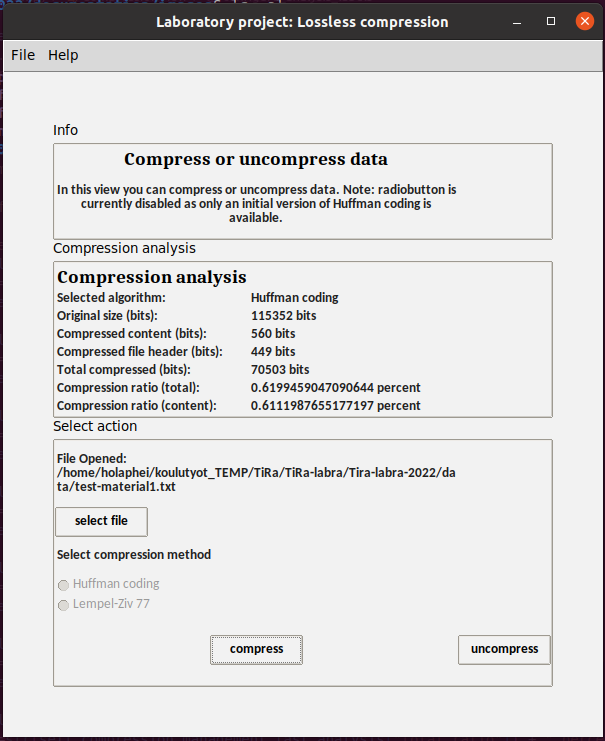
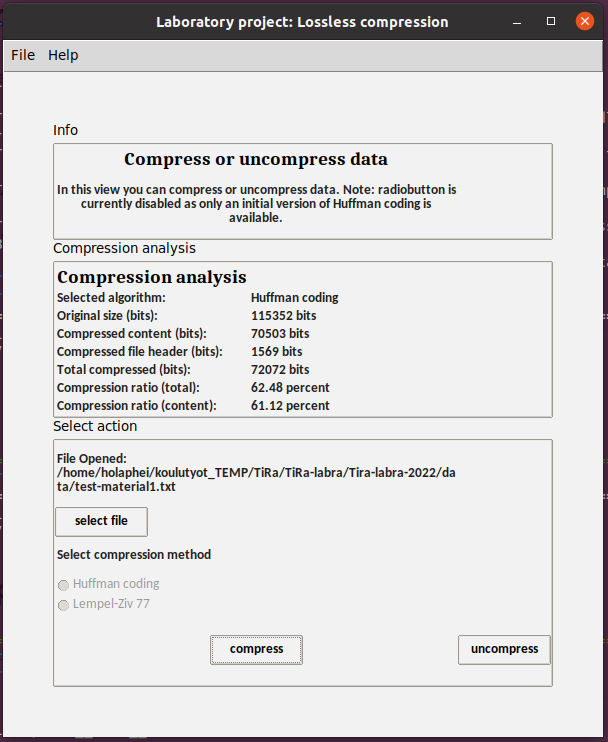
Update how-to-guide, update images

diff --git a/documentation/weekly-report-2.md b/documentation/weekly-report-2.md
@@ -1,23 +1,32 @@
 # Weekly Report #2
 
 ## Quick recap on progress
+* Initial version of Huffman algorithm built. Header still needs to be compressed more efficiently
+* GUI now has basic functionalities
+* First tests written
+* Code cleaned and refactored based on pylint feedback
+* Docstring written for written code
+* Content created for How-to-guide
+* New features can be tested by following the instructions in the how-to-guide
+
 
 ## What have I done this week?
 I was unfortunate to catch a flu previous weekend and was on a sick leave from work for the whole week. I did my best to put energy into the project and am once again satisfied with what I have done under the circumstances. Looking forward next week, hopefully without a flu and with time and energy to fully commit to this project. The biggest thing for me this week has been the growing excitement while learning more on data compression. So far this has been the favorite course I have taken. It feels great to have such passionate feelings on a subject one is studying! 
 
 On a more conrete level I read more on the Huffman coding and built a first version of the algorithm. I did struggle quite a bit with understanding the algorithm fully, but I think I have a good understanding of the basic functionalities now. I also created first functionalities in the GUI. I had to learn on how to use filedialog (file explorer) in Tkinter and it was a great new thing to learn! A user can now compress / uncompress files from the GUI. 
 
-To make testing easier, files can also be compressed/uncompressed directly from huffman.py file.
+To make testing easier, files can also be compressed/uncompressed directly from huffman.py file. When using this option, please note that the default file directory is configurable in the .env file. 
 
 
 ## How has the application progressed?
 * Initial version of Huffman coding algorithm is implemented
 * txt-files with ASCII (256) coded content can be compressed and uncompressed
 * compressed files have ".huf" as an extension
-* An initial simple analysis file is created on compression results. 
+* An initial simple analysis file is created on compression results. Analysis data is also shown in the GUI
 * The GUI has first working functionalities
 * The application has extensive docstring
 * The application now uses dotenv for easier configuration
+* First tests written. 
 
 ## What did I learn during this week / today?
 I learned a lot more on Huffman coding and know now how to proceed with that part of this project. I also learned a new useful skill for GUI - creation (how to open file explorer to read files). 
@@ -30,7 +39,7 @@ The other big issue to solve is storing the huffman tree. I had trouble finding 
 ## Next steps
 * Build initial version of Lempel-Ziv 77 algorithm
 * Improve Huffman coding
-* Integrate compression analysis into the GUI. 
+* Improve compression analysis
 
 
 ## Study hours for week #2
@@ -43,4 +52,7 @@ The other big issue to solve is storing the huffman tree. I had trouble finding 
 | 20.5.2022 | Create GUI functionalities, learn to use filedialog | 2 |
 | 20.5.2022 | Create initial service class for compression, refactor entities class | 1 |
 | 20.5.2022 | Write initial how-to-guide, test application on university virtual machine. | 0,5 |
-| **total**| ---- | **10,5** |
+| 20.5.2022 | Polish GUI, create LabelFrames for widget-layout | 1 |
+| 21.5.2022 | Refactor code based on pylint feedback | 1 |
+| 21.5.2022 | Create initial analysis data view for GUI | 1 |
+| **total**| ---- | **13,5** |

diff --git a/documentation/how-to-guide.md b/documentation/how-to-guide.md
@@ -28,17 +28,23 @@ From the menu a user can
 From the button `compress / uncompress data` user can access compression view. 
 
 ## Data compression view
-At the moment data can be compressed and uncompressed with an initial Huffman coding algorithm.  
+At the moment data can be compressed and uncompressed with an initial Huffman coding algorithm. 
 
-![Compression view](images/how-to-guide-compression-view.png)
+![Compression view](images/how-to-guide-compression-view-initial.png)
 
 Start by selecting either an uncompressed txt-file or compressed huf-file. Two example txt-files are included for more convenient testing experience.  
+
+![File explorer](images/how-to-guide-compression-view-explorer.png)
+
+One compression / uncompression done an initial crude analysis of result will be showcased. 
+
+![Analysis](images/how-to-guide-compression-view-action-taken.png)
 
 A compressed file is created into the same directory. At the moment the Huffman tree is unefficiently stored as integer-values (and a character separator ';'). This will change as the project progresses. 
 
 ![An example of compressed file](images/how-to-guide-huffman-compressed.png)
 
-Additionally a log-file containing initial information on the compression is created. 
+Additionally a log-file containing initial analysis on the compression is created. The information is a bit more detailed than what is shown on the GUI view. Currently differences are minute however. In future there might be a general log-file that stores analysis data on all compressions done. 
 
 ![Log-file](images/how-to-guide-huffman-analysis.png)
 
@@ -46,8 +52,13 @@ Additionally a log-file containing initial information on the compression is cre
 The application uses dotenv for configuration. User can change the default folder used in File Explorer. 
 
 
-# How To Run Tests
+## How To Run Tests
+To run the tests use the command `poetry run invoke test` in the root folder of the project. To generate a coverage report use the command `poetry run invoke coverage-report`.
 
-Miten ohjelma suoritetaan, miten eri toiminnallisuuksia käytetään
-Minkä muotoisia syötteitä ohjelma hyväksyy
-Missä hakemistossa on jar ja ajamiseen tarvittavat testitiedostot.
+
+## For creator 
+Below are the course guidelines on what how-to-guide should include. These are here for easier access. Will be deleted once the project is finished:
+
+* Miten ohjelma suoritetaan, miten eri toiminnallisuuksia käytetään
+* Minkä muotoisia syötteitä ohjelma hyväksyy
+* Missä hakemistossa on jar ja ajamiseen tarvittavat testitiedostot.
